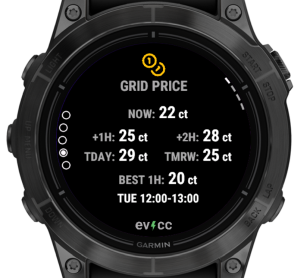
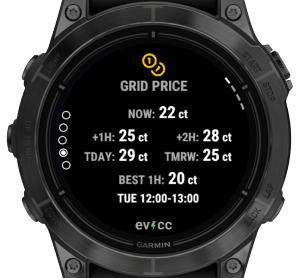
Small documentation fixes (#166)

diff --git a/docs/README.md b/docs/README.md
@@ -146,7 +146,7 @@ As described above, when more than two load points are present, they may be grou
 
 <table class="layoutTable">
   <tr>
-    <td width="33.33%"><img src="screenshots/widget_1site_2_loadpoint_300px.png"/></td>
+    <td width="33.33%"><img src="screenshots/widget_1site_2_loadpoints_300px.png"/></td>
     <td></td>
     <td></td>
   </tr>